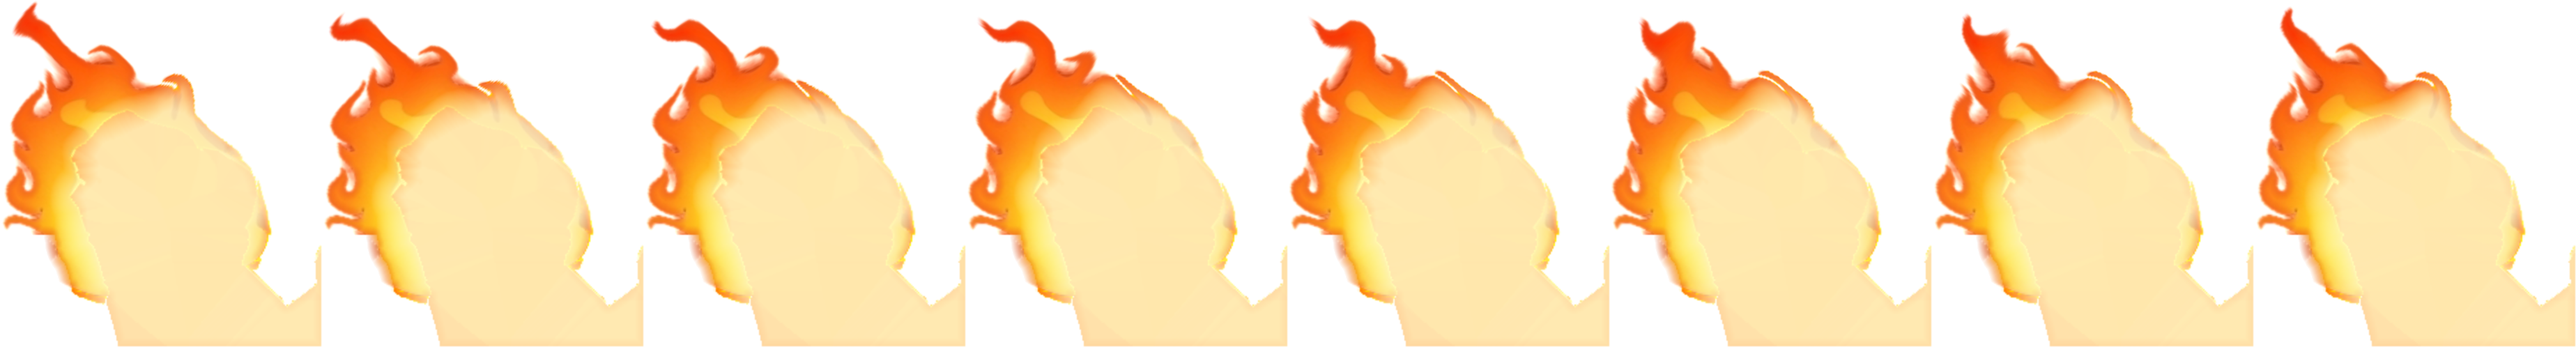
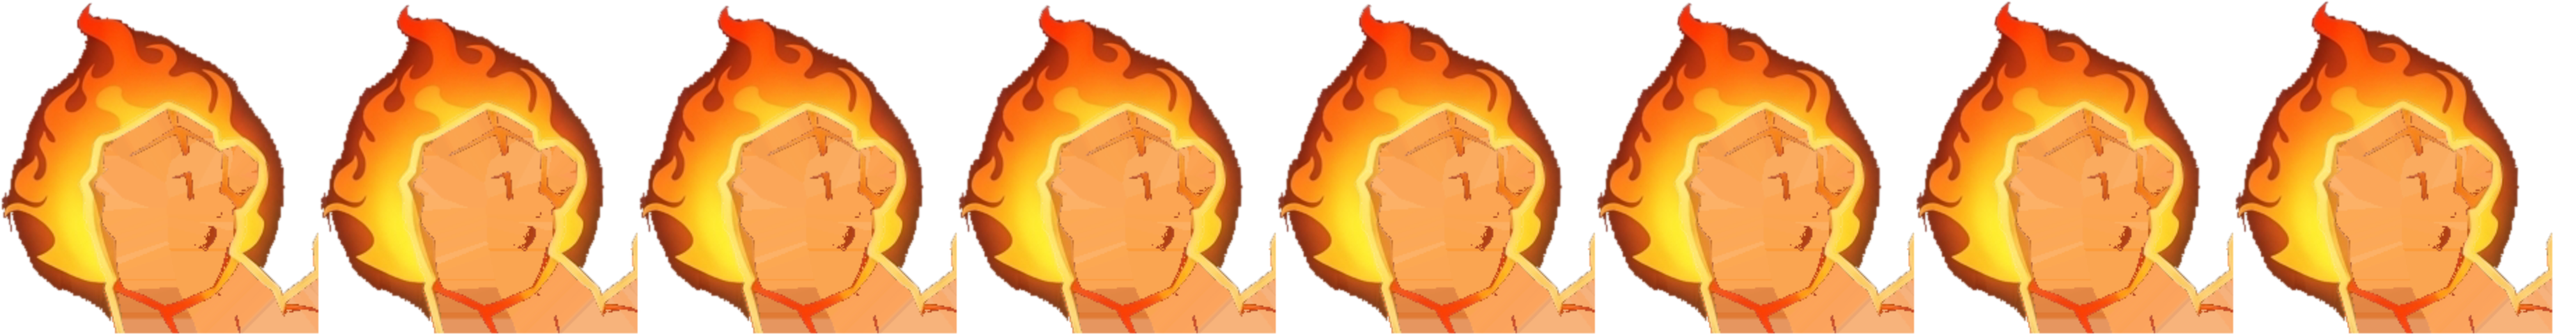
builder: fist fire is TARGET's own flame, calmer flicker; crack shader kept off the fire (fist fire item still open)
Claude-Session: https://claude.ai/code/session_01LD5MceVZFrd6UcdWcL7RnY

diff --git a/tools/beast_rig.py b/tools/beast_rig.py
@@ -117,8 +117,8 @@ FIRE_BOX = [(140, 80), (380, 80), (380, 330), (140, 330)]   # TARGET px, round t
 FIRE_FRAMES = 8
 FIRE_FPS = 10.0
 FIRE_BASE = 250
-FIRE_SWAY = 10.0      # TARGET px, sideways at the very tip
-FIRE_LIFT = 14.0      # TARGET px, how far a tip stretches up
+FIRE_SWAY = 2.5       # TARGET px, sideways at the very tip
+FIRE_LIFT = 3.5       # TARGET px, how far a tip stretches up
 # TARGET's flame is a plume trailing up and back off the fist. The canvas
 # top is the flame's top (a taller canvas would shrink the whole beast,
 # _fit_height reads it), so above FIRE_BASE the plume leans back instead:
@@ -126,6 +126,11 @@ FIRE_LIFT = 14.0      # TARGET px, how far a tip stretches up
 # hugs the fist (the round bowl under it read as a sun disc, grader
 # 2026-10-08), and fire within FIRE_CORE px of the fist burns yellow-white.
 FIRE_LEAN = 0.32
+# 2026-10-08 (queue "Fist fire: compact curling blaze wrapped on the fist"):
+# TARGET's own flame, unwarped. The lean, the cream core and the orange
+# edge pushed it into a tall pale plume off the fist; TARGET's is a compact
+# orange-yellow blaze curling round the top and back of the fist.
+FIRE_RAW = True
 FIRE_HUG = 22
 FIRE_CORE = 24
 FIRE_HOT = np.array([255, 244, 196], float)
@@ -315,15 +320,32 @@ def fire_layer(T, m):
     inside = poly_mask(FIRE_BOX, m.shape)
     box = inside & ~m
     r, g, b = T[..., 0], T[..., 1], T[..., 2]
-    a = np.clip((np.maximum(r, g) - 150) / 70, 0, 1) * np.clip((r - b - 70) / 50, 0, 1)
+    if FIRE_RAW:
+        # Against TARGET's dark slate, so the dark red tips of the tongues
+        # stay flame (a bright-only key cut them and left round puffs).
+        # Solid down into the dark red glow between the tongues: a half-keyed
+        # glow took the shader's orange halo (it fills every pixel under
+        # alpha 1) and the gaps read as one orange disc.
+        # A hard key on the drawn tongues: the dark glow round them read as
+        # a smoky halo over the game's lighter cliffs, and half-keyed glow
+        # took the shader's halo and filled the gaps orange.
+        a = ((r > 125) & (r - b > 75)).astype(float)
+    else:
+        a = np.clip((np.maximum(r, g) - 150) / 70, 0, 1) * np.clip((r - b - 70) / 50, 0, 1)
     a = a * box
     # A drawn flame has a crisp edge. The soft ramp kept TARGET's glow round
     # the fire as a faint rim that, with the shader's halo on top, rounded
     # the tongues off into a ball.
-    a = np.clip((a - 0.35) / 0.3, 0, 1)
-    a = ndi.gaussian_filter(a, 0.6) * box
+    if not FIRE_RAW:
+        a = np.clip((a - 0.35) / 0.3, 0, 1)
+    a = ndi.gaussian_filter(a, 0.5 if FIRE_RAW else 0.6) * box
     bg = np.array([28, 24, 40], float)
-    col = (T - (1 - a[..., None]) * bg) / np.maximum(a[..., None], 0.05)
+    if FIRE_RAW:
+        # TARGET's own colours: un-blending the half-keyed dark glow between
+        # the tongues off the slate blew it up to solid orange, a disc.
+        col = T.astype(float)
+    else:
+        col = (T - (1 - a[..., None]) * bg) / np.maximum(a[..., None], 0.05)
     # Behind the arm TARGET shows no fire, but the fist swings away from
     # there: grow it in from the nearest flame, solid 60 px in, fading out by 120, so the
     # swing never opens a fist-shaped hole in it.
@@ -335,6 +357,14 @@ def fire_layer(T, m):
     a = np.where(hid, a[iy, ix] * np.clip(2.0 - dist / 60.0, 0, 1), a)
     grown = col[iy, ix] * 0.25 + np.array([250, 120, 30], float) * 0.75   # TARGET's flame orange
     col = np.where(hid[..., None], grown, col)
+    if FIRE_RAW:
+        # Where TARGET itself shows flame inside the figure's mask (the
+        # yellow core hugging the back of the fist), keep TARGET's pixel.
+        flame = hid & (r > 170) & (r - b > 90) & (g > 60)
+        col = np.where(flame[..., None], T, col)
+        a = np.where(flame, 1.0, a)
+    if FIRE_RAW:
+        return np.clip(col, 0, 255), a
     # Lean the plume back off the fist: above the base, column x samples the
     # column FIRE_LEAN px per row further right.
     sx = xx + FIRE_LEAN * np.clip(FIRE_BASE - yy, 0, None)
@@ -527,8 +557,8 @@ def clips():
         # The flame licks frame by frame; it never scales about the elbow at
         # rest, which slid the ball off the fist and showed its round rim.
         "fire": {"Art:frame": [(i / FIRE_FPS, i % FIRE_FRAMES) for i in range(int(2.4 * FIRE_FPS))],
-                 "modulate": [(0, (1, 1, 1, 1)), (0.45, (1.12, 1.05, 1, 1)), (0.9, (1, 1, 1, 1)),
-                              (1.5, (1.15, 1.08, 1, 1)), (2.4, (1, 1, 1, 1))]},
+                 "modulate": [(0, (1, 1, 1, 1)), (0.45, (1.04, 1.02, 1, 1)), (0.9, (1, 1, 1, 1)),
+                              (1.5, (1.05, 1.02, 1, 1)), (2.4, (1, 1, 1, 1))]},
     }
     L = 1.2
     imp = 0.4 * L

diff --git a/design/plan/BUILDER-QUEUE-NOTES.md b/design/plan/BUILDER-QUEUE-NOTES.md
@@ -2074,3 +2074,15 @@ Found by measuring, not by eye: the jackal is TARGET's own pixels, so every crac
 - has_open.py counted 0 open items (it split on the first `## Now` text, inside the intro line); fixed to match the heading.
 - Frames: ![[agents/frames/builder/2026-10-08-cracks2-before.png|420]] ![[agents/frames/builder/2026-10-08-cracks2-after.png|420]]
 - Meshy: 0 credits.
+
+## Fist fire: compact curling blaze wrapped on the fist.
+
+2026-10-08 18:51 EDT, builder. Not passed; item left open.
+
+- **Built (tools/beast_rig.py, `FIRE_RAW`):** TARGET's own flame, unwarped: no lean, no cream core, no orange edge recolour, TARGET's colours (no un-blend off the slate), a hard key on the drawn tongues (r > 125, r-b > 75), TARGET's flame pixels kept where the figure's mask overlaps the fist. Flicker calmer: FIRE_SWAY 10 -> 2.5, FIRE_LIFT 14 -> 3.5, idle modulate peaks 1.15 -> 1.05. The rig's rest composite now equals TARGET pixel for pixel round the fist.
+- **Shader:** crack_grow / heat / hot_glow now act only near dark plates and onto pixels darker than the fire's glow (`plate`, `rock`), so they never touch the flame.
+- **Found:** with the scene's glow off, the flame shows TARGET's tongues and dark gaps; with it on they wash into one orange dome. Raising `glow_hdr_threshold` 1.0 -> 1.7 (above the jackal's 1.6 emission cap) changed nothing in the shot, so something else drives that bloom. Not changed: global glow also lights the lava.
+- On-screen colour bands round the fist, TARGET/game: yellow (253,211,66)/(254,198,77), orange (247,136,31)/(250,149,50), dark red (134,47,22)/(141,47,22).
+- **Grader:** R1 FAIL (round puffs, pale), R2 FAIL (blob, airbrushed), R3 FAIL (colour right; dark smoky halo), R4 FAIL (soft dome, no tongues). Every round: closer than before, no penalties. Final: VERDICT: FAIL.
+- Frames: ![[agents/frames/builder/2026-10-08-fistfire2-before.png|420]] ![[agents/frames/builder/2026-10-08-fistfire2-after.png|420]]
+- Meshy: 0 credits.

diff --git a/design/agents/status/builder.md b/design/agents/status/builder.md
@@ -13,14 +13,15 @@ The one lane that builds. Queue: [[../../plan/BUILDER-QUEUE]]. Brief:
 
 ## This run
 
-2026-10-08 18:32 EDT
+2026-10-08 18:51 EDT
 
-- **Did:** sharpened the jackal and widened its cracks with gold cores and a sternum glow, in the sprite shader.
-- **Worked?** Partly: sharper and hotter chest, grader says closer but not 1:1. VERDICT: FAIL
-- **Look at:** ![[frames/builder/2026-10-08-cracks2-before.png]] then ![[frames/builder/2026-10-08-cracks2-after.png]]
+- **Did:** jackal sharpened with wider gold-cored cracks; fist fire is now TARGET's own flame, calmer flicker.
+- **Worked?** Partly: both closer per grader, neither 1:1. Cracks VERDICT: FAIL; fist fire VERDICT: FAIL
+- **Look at:** ![[frames/builder/2026-10-08-fistfire2-before.png]] then ![[frames/builder/2026-10-08-fistfire2-after.png]]
 - **Ask:** nothing
-- **Found:** the grader's verdicts on crack glow swung between "smear" and "too narrow" across rounds; stopped the item after R7 to spend the run on the next one.
-- **Found:** the HUD sits outside the centred square (boss bar cut, climb gauge and End Turn outside), named out of scope by every grader round.
+- **Found:** scene bloom washes the jackal's fire and cracks into soft blobs; raising the glow threshold had no visible effect.
+- **Found:** the HUD sits outside the centred square (boss bar cut, climb gauge and End Turn outside); every grader round names it.
+- **Found:** the crack grader rounds swung between "smear" and "too narrow"; stopped that item after R7 to work the next.
 
 ## Notes
 

diff --git a/design/plan/BUILDER-QUEUE.md b/design/plan/BUILDER-QUEUE.md
@@ -39,6 +39,7 @@ run failed.
       Test: state=3d beast=cinder_jackal ^cracks-wide-hot-cores-and-a-long-sternum
 
 - [ ] **Fist fire: compact curling blaze wrapped on the fist.**
+      Next pass: grader R4: still a soft round dome, no separate pointed tongues with dark gaps, no red-orange tips; the rig's rest frame is TARGET's pixels exactly, and a shot with the scene's bloom off shows the tongues and gaps, so make the jackal stop blooming (glow_hdr_threshold 1.7 changed nothing; find why) rather than redrawing the flame.
       Both critics, MODERATE: TARGET's flame is a compact orange-yellow blaze curling round the top and back of the fist; the game's is a tall pale plume rising above and behind it.
       **Done when** the `--square` and `--beast` pairs show no visible difference in the fist's flame.
       Test: state=3d beast=cinder_jackal ^fist-fire-compact-curling-blaze-wrapped-
